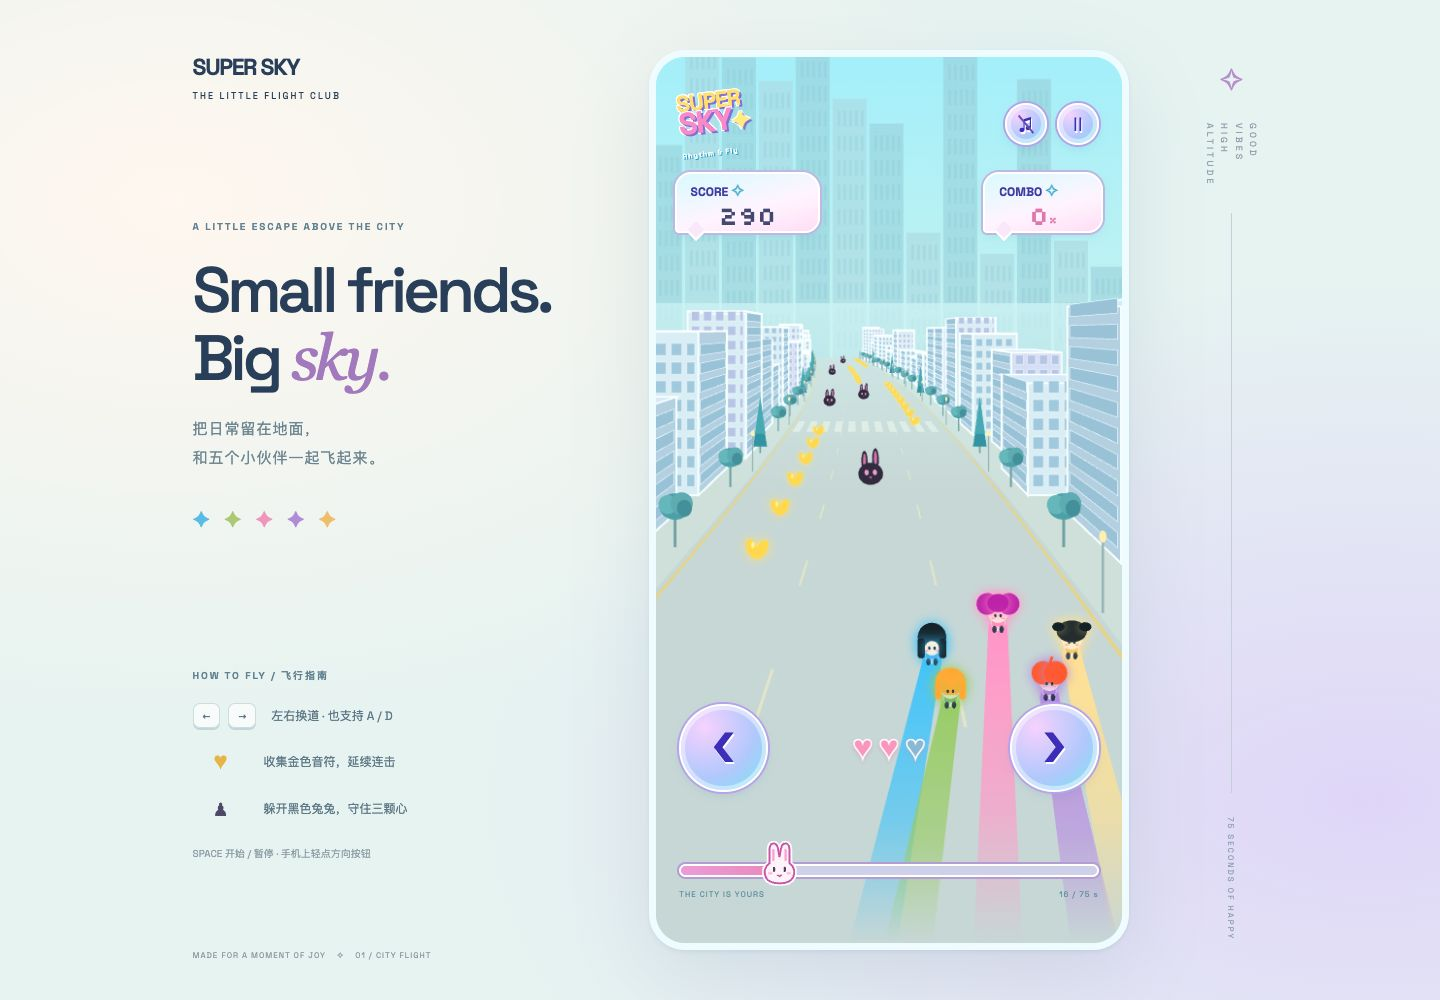
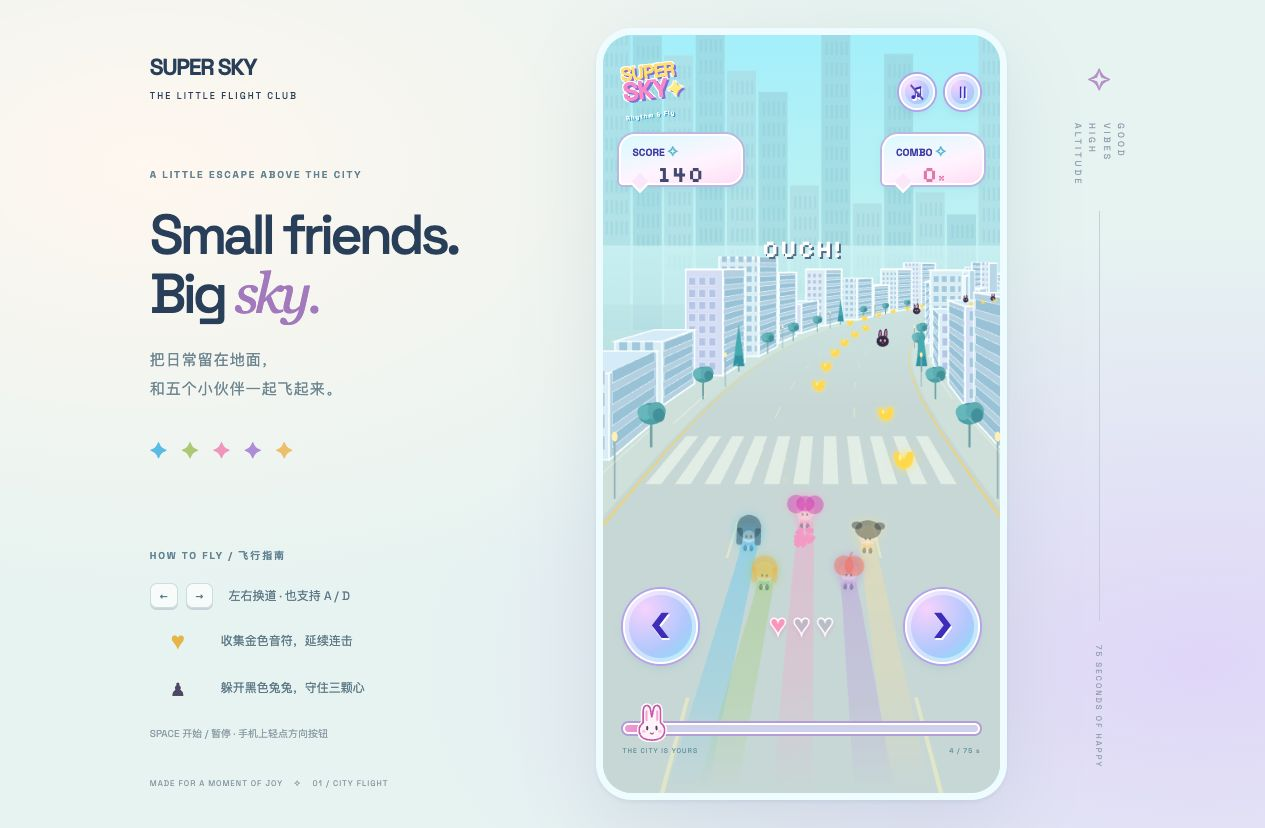
Update Site source

diff --git a/dist/game.js b/dist/game.js
@@ -1,7 +1,7 @@
 const canvas = document.querySelector('#game');
 const ctx = canvas.getContext('2d');
 const $ = id => document.getElementById(id);
-const W = 480, H = 900, SPEED = 230, DURATION = 75, HIT_Z = 150;
+const W = 480, H = 900, SPEED = 560, DURATION = 75, HIT_Z = 150;
 const palette = ['#5ecaff', '#a6d267', '#ff9dce', '#bd94e9', '#ffe595'];
 const hair = ['#17252e', '#ffb223', '#bd25b5', '#fa632a', '#18252c'];
 let best = 0;
@@ -14,13 +14,13 @@ const random = n => { const s = Math.sin(n * 127.1 + 311.7) * 43758.5453; return
 function initCourse() {
  objects = [];
  // Each phrase stays in one lane, leaving time to follow the next phrase.
- for (let i = 0; i < 216; i++) {
-  const phrase = Math.floor(i / 8);
-  const route = [0, -1, 0, 1, 0, -1, 1, 0, 1][phrase % 9];
-  const z = 850 + i * 76;
+ for (let i = 0; 700 + i * 100 < SPEED * DURATION + HIT_Z; i++) {
+  const phrase = Math.floor(i / 6);
+  const route = [0, -1, 0, 1, 0, -1, 0, 1, 0][phrase % 9];
+  const z = 700 + i * 100;
   objects.push({z, lane:route, type:'note', done:false});
-  if (i > 12 && i % 8 === 4) objects.push({z:z + 15, lane:route === 0 ? (phrase % 2 ? -1 : 1) : 0, type:'bunny', done:false});
-  if (i > 20 && i % 24 === 0) objects.push({z:z + 220, lane:route === 1 ? -1 : 1, type:'bunny', done:false});
+  if (i > 5 && i % 6 === 3) objects.push({z:z + 15, lane:route === 0 ? (phrase % 2 ? -1 : 1) : 0, type:'bunny', done:false});
+  if (i > 17 && i % 18 === 0) objects.push({z:z + 220, lane:route === 1 ? -1 : 1, type:'bunny', done:false});
  }
 }
 function syncHUD() {
@@ -103,9 +103,9 @@ document.addEventListener('visibilitychange',()=>{if(document.hidden&&state==='p
 function feedback(text,broken=false){$('feedback').textContent=text;$('feedback').className=`feedback show${broken?' break':''}`;feedbackTime=.75;}
 function burst(x,y,color,count=10){for(let i=0;i<count;i++)particles.push({x,y,vx:(Math.random()-.5)*200,vy:-Math.random()*180,life:.6+Math.random()*.3,color});}
 function update(dt){
- playerX+=(lane*105-playerX)*Math.min(1,dt*11);
+ playerX+=(lane*105-playerX)*Math.min(1,dt*16);
  elapsed+=dt;distance+=SPEED*dt;invincible=Math.max(0,invincible-dt);
- if(elapsed>=nextBeat){music();nextBeat+=.3;}
+ if(elapsed>=nextBeat){music();nextBeat+=.23;}
  for(const object of objects){
   if(object.done||object.z-distance>HIT_Z)continue;
   object.done=true;
@@ -122,7 +122,10 @@ function update(dt){
  particles.forEach(p=>{p.x+=p.vx*dt;p.y+=p.vy*dt;p.vy+=150*dt;p.life-=dt;});particles=particles.filter(p=>p.life>0);
  syncHUD();if(elapsed>=DURATION)finish(true);
 }
-function curve(z){const t=distance/2200;return (Math.sin(t+z/2200)-Math.sin(t)-Math.cos(t)*z/2200)*700;}
+function curve(z){
+ const t=distance/800;
+ return (Math.sin(t+z/800)-Math.sin(t)-Math.cos(t)*z/800)*650;
+}
 function project(x,z,height=0){const s=350/(z+120);return {x:W/2+(x+curve(z)-playerX*.16)*s,y:278+80000/(z+120)-height*s,s};}
 function polygon(points,fill,stroke,width=1){ctx.beginPath();points.forEach((p,i)=>i?ctx.lineTo(p.x,p.y):ctx.moveTo(p.x,p.y));ctx.closePath();ctx.fillStyle=fill;ctx.fill();if(stroke){ctx.strokeStyle=stroke;ctx.lineWidth=width;ctx.stroke();}}
 function line(points,color,width){ctx.beginPath();points.forEach((p,i)=>i?ctx.lineTo(p.x,p.y):ctx.moveTo(p.x,p.y));ctx.strokeStyle=color;ctx.lineWidth=width;ctx.stroke();}
@@ -132,7 +135,7 @@ function road(){
  const sky=ctx.createLinearGradient(0,0,0,H);sky.addColorStop(0,'#b5f1fc');sky.addColorStop(.5,'#e0f6ed');sky.addColorStop(1,'#e9e9e5');ctx.fillStyle=sky;ctx.fillRect(0,0,W,H);
  ctx.fillStyle='#c0e1e4';ctx.fillRect(0,320,W,H-320);
  for(let i=0;i<17;i++){
-  const x=i*38-60+Math.sin(distance/5000)*20,h=120+random(i+4)*250;
+  const x=i*38-60+Math.sin(distance/800)*75,h=120+random(i+4)*250;
   ctx.fillStyle=i%2?'#a8d5df99':'#b9dfe7aa';ctx.fillRect(x,350-h,35,h);
   ctx.fillStyle='#8fc5d233';for(let j=0;j<5;j++)for(let k=0;k<10;k++)ctx.fillRect(x+5+j*6,350-h+12+k*25,3,16);
  }
@@ -201,8 +204,8 @@ function drawObjects(){
  const visible=objects.filter(o=>!o.done&&o.z-distance>HIT_Z-15&&o.z-distance<2400).sort((a,b)=>b.z-a.z);
  for(const o of visible){const z=o.z-distance,p=project(o.lane*105,z,26);if(o.type==='note')note(p.x,p.y,Math.min(25,16*p.s),Math.sin(idle*4+o.z)*.09);else bunny(p.x,p.y,Math.min(40,24*p.s));}
 }
-function character(x,y,index,scale){
- ctx.save();ctx.translate(x,y);ctx.scale(scale,scale);
+function character(x,y,index,scale,bank){
+ ctx.save();ctx.translate(x,y);ctx.rotate(bank);ctx.scale(scale,scale);
  ellipse(0,14,8,10,'#fff9f4');rect(-7,12,14,7,2,['#72aff2','#78b484','#f69abd','#b88be6','#f4bd54'][index]);
  ellipse(-4,22,2.5,4,'#233851');ellipse(4,22,2.5,4,'#233851');
  ellipse(0,2,12,13,'#fff3e4');
@@ -215,20 +218,28 @@ function character(x,y,index,scale){
 }
 function team(dt){
  const base=project(playerX,HIT_Z,22).x;
+ const bank=-Math.sin(distance/800)*.16+(lane*105-playerX)*.0015;
  if(state!=='paused'){trail.unshift({x:base,y:585});if(trail.length>90)trail.pop();}
  const positions=[[-68,8],[-49,51],[0,-24],[53,48],[76,7]];
  ctx.save();if(invincible>0&&Math.floor(invincible*14)%2)ctx.globalAlpha=.35;
  for(const index of [0,4,1,3,2]){
-  const [dx,dy]=positions[index],y=584+dy+Math.sin(idle*4+index)*3;
+  const [dx,dy]=positions[index],y=584+dy+dx*bank+Math.sin(idle*6+index)*3;
   const ribbon=ctx.createLinearGradient(0,y,0,H);ribbon.addColorStop(0,palette[index]);ribbon.addColorStop(.6,palette[index]+'99');ribbon.addColorStop(1,palette[index]+'00');
   const pts=[{x:base+dx-9,y:y+15},{x:base+dx+9,y:y+15}];
   for(let j=0;j<30;j++){const t=j/29;const past=trail[Math.min(trail.length-1,Math.floor(t*65))]||{x:base};pts.push({x:past.x+dx*(1+t*.95)+10+t*16,y:y+20+t*(H-y)});}
   for(let j=29;j>=0;j--){const t=j/29;const past=trail[Math.min(trail.length-1,Math.floor(t*65))]||{x:base};pts.push({x:past.x+dx*(1+t*.95)-10-t*16,y:y+20+t*(H-y)});}
   polygon(pts,ribbon);
-  ctx.shadowColor=palette[index];ctx.shadowBlur=12;character(base+dx,y,index,.92);ctx.shadowBlur=0;
+  ctx.shadowColor=palette[index];ctx.shadowBlur=12;character(base+dx,y,index,.92,bank);ctx.shadowBlur=0;
  }
  ctx.restore();
 }
-function render(dt){road();scenery();drawObjects();team(dt);for(const p of particles){ctx.globalAlpha=Math.max(0,Math.min(1,p.life*2));ctx.fillStyle=p.color;ctx.save();ctx.translate(p.x,p.y);ctx.rotate(p.life*6);ctx.fillRect(-3,-3,6,6);ctx.restore();}ctx.globalAlpha=1;}
+function speedLines(){
+ if(state!=='playing'&&state!=='paused')return;
+ for(let i=0;i<12;i++){
+  const z=80+((i*83-distance%950+950)%950),x=(i%2?-1:1)*(202+random(i)*42);
+  line([project(x,z,5),project(x,z+100,5)],'#ffffff55',1.5);
+ }
+}
+function render(dt){road();scenery();drawObjects();speedLines();team(dt);for(const p of particles){ctx.globalAlpha=Math.max(0,Math.min(1,p.life*2));ctx.fillStyle=p.color;ctx.save();ctx.translate(p.x,p.y);ctx.rotate(p.life*6);ctx.fillRect(-3,-3,6,6);ctx.restore();}ctx.globalAlpha=1;}
 function frame(t){const dt=Math.min((t-last)/1000||0,.05);last=t;if(state!=='paused')idle+=dt;if(state==='playing')update(dt);render(dt);requestAnimationFrame(frame);}
 initCourse();syncHUD();requestAnimationFrame(frame);

diff --git a/README.md b/README.md
@@ -18,6 +18,7 @@ python3 -m http.server 4173 --directory dist
 - 点击右上角音符开启 / 关闭声音，初始静音。
 - 收集金色音符积累得分和连击；漏掉音符会中断连击。
 - 撞到黑兔扣一颗生命，碰撞后有 1.2 秒保护；生命耗尽可重试。
+- 飞行速度为初版的约 2.4 倍，开局即进入弯道，约每 4.5 秒切换弯道方向；小队跟随转弯侧倾。
 - 一局 75 秒；最高分保存在当前浏览器。
 
 ## 检查
